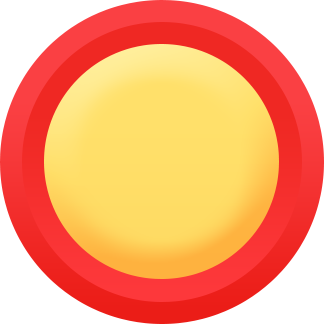
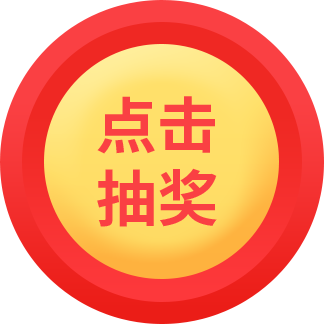
1

Changed region(s): [[0.2778, 0.5247, 0.679, 0.7099], [0.3086, 0.2778, 0.679, 0.4938]]

diff --git a/2020/typescript/demo/dist/bundle.js b/2020/typescript/demo/dist/bundle.js
@@ -41,5 +41,6 @@ console.log(joho);
 function sum(a, b) {
     return a + b;
 }
+var name = 123;
 },{"./User":1}]},{},[2])
[2 lines of base64/hex data omitted]

diff --git a/2020/project/lottery/styles/style.css b/2020/project/lottery/styles/style.css
@@ -4,10 +4,35 @@ body{
 #app{
     width: 100%;
     min-height: 40rem;
-    /* background: url(../images/1/bg.jpg) no-repeat; */
+    background: url(../images/1/bg.jpg) no-repeat;
+    background-size: 100%;
+    padding-top: 11rem;
+    box-sizing: border-box;
+}
+.lottery-wrap{
+    position: relative;
+    width: 10.8rem;
+    height: 12.06rem;
+    background: url(../images/1/turntable/lottery-box.png) no-repeat;
+    background-size: 100%;
+    margin-bottom: 2rem;
+    box-sizing: border-box;
+}
+.pointer{
+    position: absolute;
+    left: 50%;
+    top: .32rem;
+    margin-left: -.79rem;
+    width: 1.58rem;
+    height: 2.19rem;
+    background: url(../images/1/turntable/pointer.png) no-repeat;
     background-size: 100%;
 }
 .start-btn{
+    position: absolute;
+    top: 4.4rem;
+    left: 50%;
+    margin-left: -1.62rem;
     width: 3.24rem;
     height: 3.24rem;
     background: url(../images/1/turntable/btn-start.png) no-repeat;
@@ -15,25 +40,33 @@ body{
 }
 .lottery-box{
     position: relative;
-    width: 4rem;
-    height: 4rem;
-    background: #ccc;
+    width: 8.45rem;
+    height: 8.45rem;
+    width: 10.8rem;
+    height: 12.06rem;
+    background: url(../images/1/turntable/lottery-box.png) no-repeat;
+    background-size: 100%;
     margin: 0 auto;
     border-radius: 50%;
     transition: all 3s ease-in-out;
+    /* transform: rotate(30deg); */
+    transform-origin: center;
 }
 .lottery-box .item{
     position: absolute;
-    width: 1.2rem;
+    width: 2.5rem;
     text-align: center;
-    height: 2rem;
-    top: 0;
+    height: 4.2rem;
+    top: 1.85rem;
     left: 50%;
-    margin-left: -.6rem;
+    margin-left: -1.25rem;
     text-align: center;
     transform-origin: bottom;
 }
 
+.lottery-box .item img{
+    width: .2rem
+}
 .lottery-box .item span{
     display: block;
     padding: .2rem;
@@ -75,9 +108,6 @@ body{
     overflow: hidden;
     padding: 0 .8rem;
 }
-.name-list .list .wrap{
-    /* transition: all .3s; */
-}
 .name-list .list .item{
     line-height: .8rem;
     display: flex;
@@ -100,6 +130,17 @@ body{
     position: relative;
     width: 50%;
     height: 100%;
+}
+.nav .item.active:before{
+    content: '';
+    width: .3rem;
+    height: .21rem;
+    background: url(../images/1/prize/nav-active.png) no-repeat;
+    background-size: 100%;
+    position: absolute;
+    bottom: -.21rem;
+    left: 50%;
+    margin-left: -.15rem;
 }
 .nav .item:after{
     content: '';
@@ -136,6 +177,7 @@ body{
     height: 14.12rem;
     padding: .6rem .35rem 0;
     box-sizing: border-box;
+    margin-bottom: .2rem;
     background: url(../images/1/prize/prize-bg.png) repeat;
     background-size: 100%;
 }
@@ -325,20 +367,21 @@ body{
     bottom: -1rem;
     left: 50%;
     margin-left: -.4rem;
+    top: auto;
 }
 .prize-modal-content img{
     margin: 0 auto;
     width: 3.75rem;
     height: 4.45rem;
     display: block;
-    margin: 0 auto 1.05rem;
+    margin: 0 auto .95rem;
 }
 .prize-modal-content p{
     font-size: .42rem;
     color: #fdfdfd;
     line-height: 1;
     text-align: center;
-    margin-bottom: .3rem
+    margin-bottom: .5rem
 }
 .prize-modal-content .btn-submit{
     width: 4.59rem;

diff --git a/2020/project/lottery/index.html b/2020/project/lottery/index.html
@@ -3,7 +3,7 @@
 
 <head>
     <meta charset="UTF-8">
-    <meta name="viewport" content="width=device-width, initial-scale=1.0">
+    <meta name="viewport" content="width=device-width, initial-scale=1.0; user-scalable=0">
     <title>元旦大转盘</title>
     <link rel="stylesheet" href="./styles/reset.css">
     <link rel="stylesheet" href="./styles/swiper.min.css">
@@ -26,34 +26,15 @@
     <div id="app">
         <div class="lottery-wrap">
             <div class="lottery-box">
-                <div class="item" v-for="(item, index) in prizeList" :style="{'transform': 'rotate('+ index * 60 +'deg)'}">
-                    <span>{{item.prize_name}}</span>
+                <div class="item" v-for="(item, index) in prizeList" :style="{'transform': 'rotate('+ (index * 60 - 30) +'deg)'}">
+                    <span>{{item.prize_name + '--' + index }}</span>
                     <img :src="item.prize_url" alt="">
-                </div>
-                <!-- <div class="item" style="transform: rotate(60deg);">
-                    <span>2</span>
-                    <img src="./images/u2.png" alt="">
-                </div>
-                <div class="item" style="transform: rotate(120deg);">
-                    <span>3</span>
-                    <img src="./images/u3.png" alt="">
-                </div>
-                <div class="item" style="transform: rotate(180deg);">
-                    <span>4</span>
-                    <img src="./images/u4.png" alt="">
-                </div>
-                <div class="item" style="transform: rotate(240deg);">
-                    <span>5</span>
-                    <img src="./images/u5.png" alt="">
-                </div>
-                <div class="item" style="transform: rotate(300deg);">
-                    <span>6</span>
-                    <img src="./images/u6.png" alt="">
-                </div> -->
+                </div> 
             </div>
-            <div class="start-btn" @click="start"></div>
+            <div class="pointer"></div>
+            <div class="start-btn" @click="start"><div class="text"></div></div>
         </div>
-        <div class="lottery-num" @click="showPrizeModal = true">剩余抽奖次数：1</div>
+        <!-- <div class="lottery-num" @click="showPrizeModal = true">剩余抽奖次数：1</div> -->
         <div class="name-list">
             <div class="title">
                 <div class="text"></div>
@@ -125,6 +106,6 @@
     <script src="./script/zepto.min.js"></script>
     <script src="./script/vue.js"></script>
     <script src="./script/swiper.min.js"></script>
-    <script src="./script/app.js?v=2"></script>
+    <script src="./script/app.js"></script>
 </body>
 </html>

diff --git a/2020/project/lottery/script/app.js b/2020/project/lottery/script/app.js
@@ -58,7 +58,7 @@ var vm = new Vue({
                 url: host + '/getprizelist',
                 type: 'post',
                 success: function (res) {
-                    that.prizeList = res.data;
+                    that.prizeList = res.data.concat(res.data).concat(res.data);
                 }
             })
         },  
@@ -86,6 +86,13 @@ var vm = new Vue({
                 success: function (res) {
                     that.loading = false;
                     if(res.code == 1) {
+                        var end = 0;
+                        for(var i = 0; i < that.prizeList.length; i++) {
+                            if(that.prizeList[i].batch_id === res.data.batch_id) {
+                                end = i;
+                            }
+                        }
+                        var rotate = 3960 - end * 60 + 30;
                         var userInfo = res.data.user_info
                         that.prizeInfo = res.data;
                         if(userInfo.user_name) {
@@ -95,16 +102,21 @@ var vm = new Vue({
                         else {
                             that.submitInfoed = false;
                         }
-                        that.showPrizeModal = true;
+                        if(that.prizeInfo.is_lottery == 0) {
+                            $(".lottery-box").css('transform', 'rotate(' + rotate + 'deg)')
+                            setTimeout(function () {
+                                that.showPrizeModal = true;
+                            }, 3300)
+                        }
+                        else {
+                            that.showPrizeModal = true;
+                        }
                     }
                 },
                 error: function () {
                     that.loading = false;
                 }
             })
-            // var end = Math.floor(Math.random(8) * 10)
-            // var rotate = 3960 - end * 45;
-            // $(".lottery-box").css('transform', 'rotate(' + rotate + 'deg)')
         },
         handleSubmit: function() {
             var username = this.sizeForm.user_name;
@@ -160,9 +172,10 @@ var vm = new Vue({
         },
     },
     mounted: function() {
+        localStorage.cardNo = '8uU0w'
         if(localStorage.cardNo !== '') {
             this.cardNo = localStorage.cardNo
-            this.showInputCardModal = false;
+            // this.showInputCardModal = false;
         }
         this.getLotteryList();
         this.getprizelist();

diff --git a/2020/typescript/demo/src/main.ts b/2020/typescript/demo/src/main.ts
@@ -5,3 +5,4 @@ console.log(joho)
 function sum(a: string, b: number): string {
     return a + b;
 }
+var name = 123;

diff --git a/2020/typescript/demo/src/main.d.ts b/2020/typescript/demo/src/main.d.ts
@@ -1,0 +1,1 @@
+declare var name: string;
